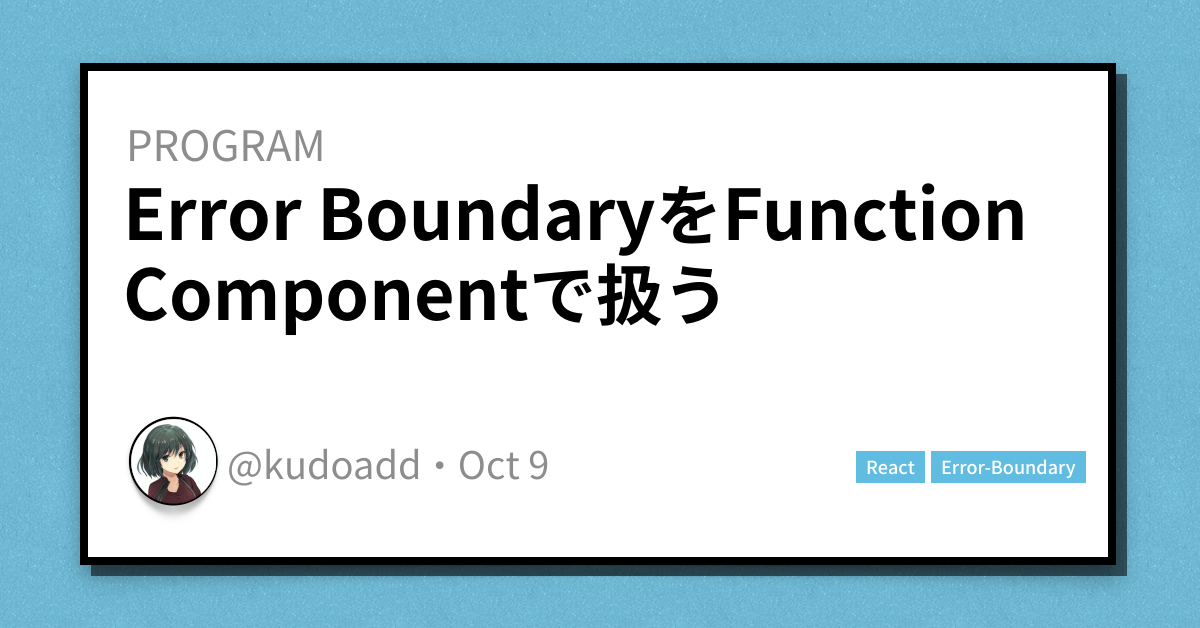
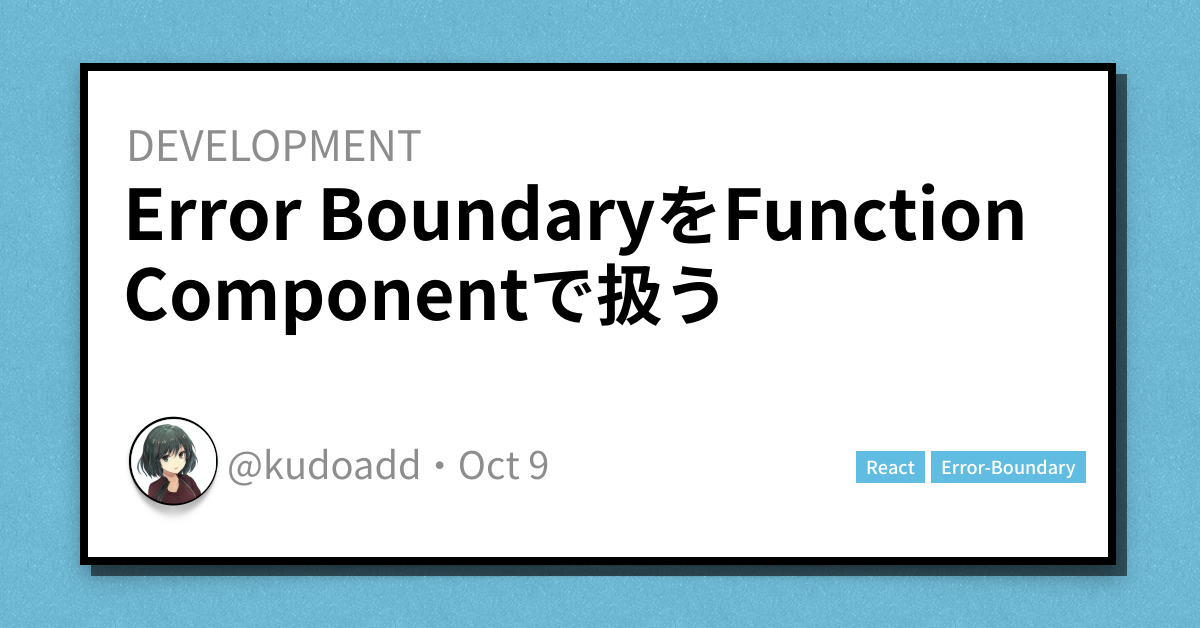
categoryをproblemからdevelopmentへ変更

Changed region(s): [[0.0925, 0.1815, 0.37, 0.2723]]

diff --git a/content/posts/react-intersection-observer.md b/content/posts/react-intersection-observer.md
@@ -2,7 +2,7 @@
 title: "画面に表示されたことを検出して、Styled ComponentsでCSSを切り替える"
 date: 2020-10-03T09:43:00+09:00
 description: "react-intersection-observerとは画面の要素がビューポート（ブラウザ上に表示されている画面）に入った時、もしくは出た時に検知してくれる React 用のライブラリです。"
-categories: ["program"]
+categories: ["development"]
 tags: ["react", "styled-component", "react-intersection-observer"]
 images: ["tcard/react-intersection-observer.png"]
 author: ["@kudoadd"]

diff --git a/content/posts/dotenv-js.md b/content/posts/dotenv-js.md
@@ -2,7 +2,7 @@
 title: Nodejsで環境変数を設定できるdotenvの紹介
 date: 2020-05-26T09:43:00+09:00
 description: "Node.js で API を作っていた時に Production Key や DB のパスワードをハードコーディングして GitHub に上げてしまうのは気が引けた。調べてみると Nodejs には環境変数を簡単に設定できるdotenvというモジュールがあったので使い方のメモです。"
-categories: ["program"]
+categories: ["development "]
 tags: ["dotenv"]
 images: ["tcard/dotenv-js.png"]
 author: ["@kudoadd"]

diff --git a/content/posts/func-error-boundary.md b/content/posts/func-error-boundary.md
@@ -2,7 +2,7 @@
 title: "Error BoundaryをFunction Componentで扱う"
 date: 2020-10-09T09:43:00+09:00
 description: "React では Error Boundary という子コンポーネントツリーでエラーが発生した際にクラッシュした UI を表示させる代わりに、フォールバック用の UI を表示するコンポーネントがあります。"
-categories: ["program"]
+categories: ["development"]
 tags: ["react", "error-boundary"]
 images: ["tcard/func-error-boundary.png"]
 author: ["@kudoadd"]

diff --git a/content/posts/sort.md b/content/posts/sort.md
@@ -2,7 +2,7 @@
 title: Pythonでのソートアルゴリズムの実装
 date: 2020-06-01T09:43:00+09:00
 description: "JavaSctipt 特有の非同期処理でのメモです。"
-categories: ["program"]
+categories: ["development"]
 tags: ["algorithm", "sort"]
 images: ["tcard/sort.png"]
 author: ["@kudoadd"]

diff --git a/content/posts/async-nodejs.md b/content/posts/async-nodejs.md
@@ -2,7 +2,7 @@
 title: 非同期処理でハマったこと
 date: 2020-03-01T09:43:00+09:00
 description: "JavaSctipt 特有の非同期処理でのメモです。"
-categories: ["program"]
+categories: ["development"]
 tags: ["javascript", "async"]
 images: ["tcard/async-nodejs.png"]
 author: ["@kudoadd"]
